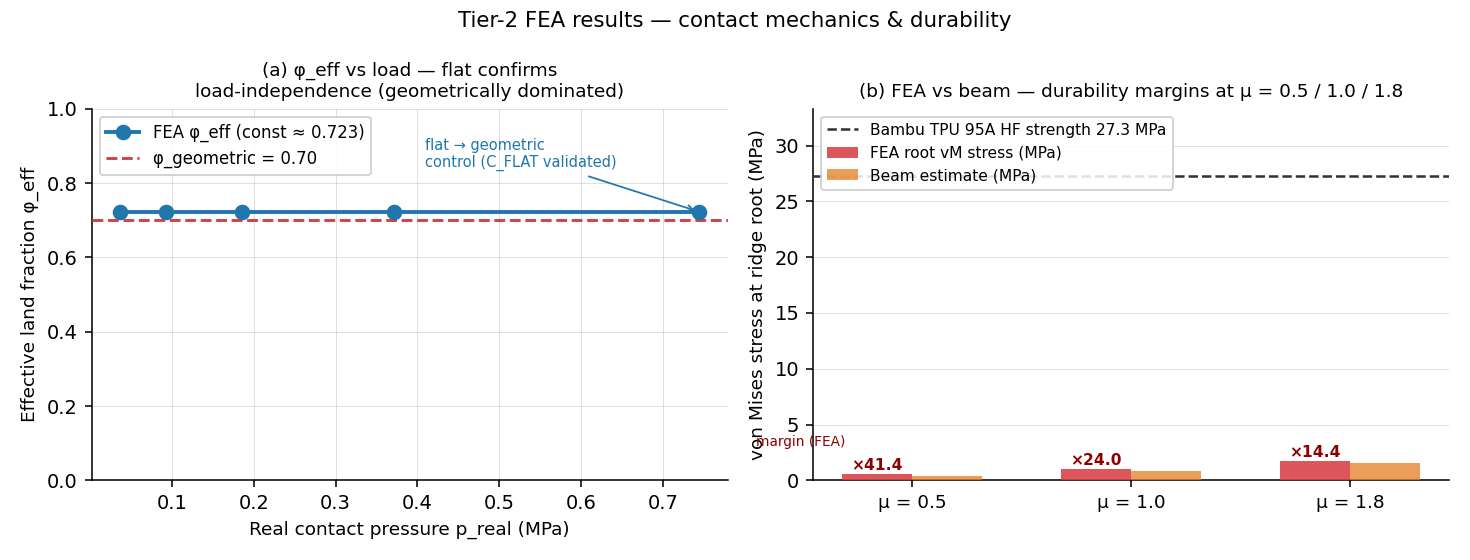
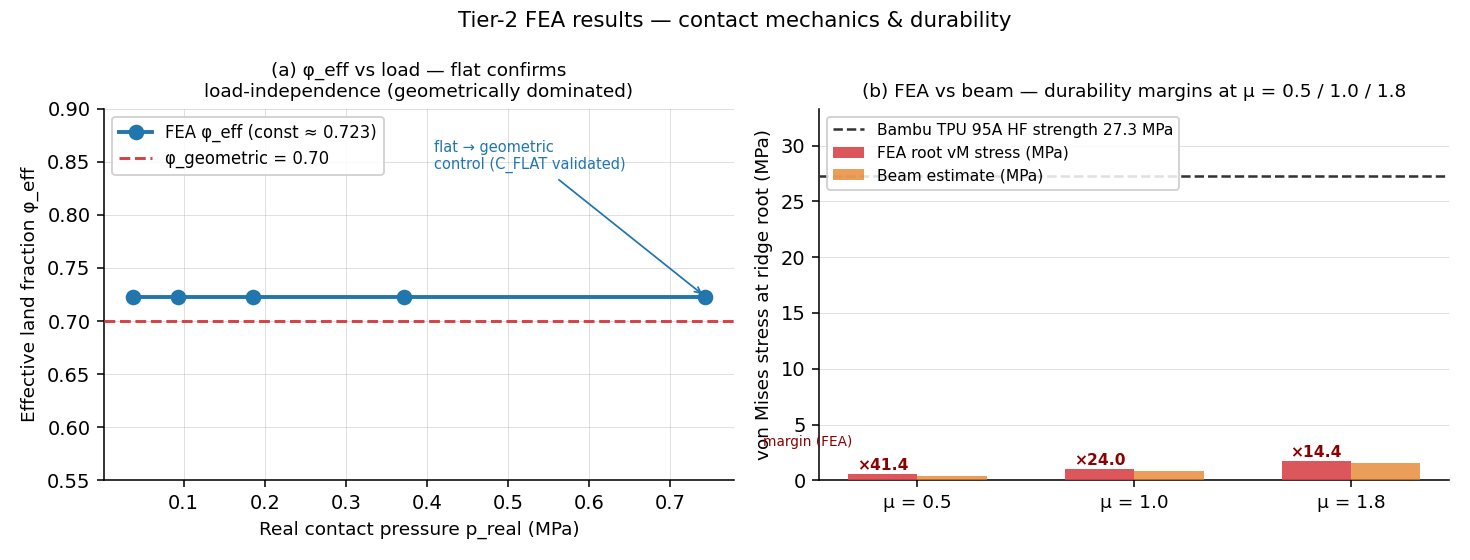
fix(figs): tighten tier-2 φ_eff axis; log-scale the torque-chain plot
- tier2_fea (a): y-axis 0.55–0.9 so the flat load-independence trend is readable.
- torque_chain: log y + both-axis grid + 0.05–14 N limits so the near-closed
  force decade isn't crushed against zero.

diff --git a/motor/scripts/torque_chain.py b/motor/scripts/torque_chain.py
@@ -86,8 +86,9 @@ def plot(out):
         ax.text(0.02, 12.4, "12 N FEA stress-probe", fontsize=8, alpha=0.7)
         ax.set_title(f"{gname}\n(T_safe = {tsafe} N·m)", fontsize=9)
         ax.set_xlabel("open_norm (0=closed → 1=open)")
-        ax.grid(alpha=0.3); ax.legend(fontsize=7)
+        ax.grid(alpha=0.3, which="both"); ax.legend(fontsize=7); ax.set_yscale("log")
     axs[0].set_ylabel("per-finger tip force (N), mid-face")
+    axs[0].set_ylim(0.05, 14)
     fig.suptitle("Motor → tip-force chain: gear ceiling binds, not the servo "
                  "(12 N is FEA stress-probe, not operating force)", fontsize=11)
     fig.tight_layout()

diff --git a/grip/scripts/make_figures.py b/grip/scripts/make_figures.py
@@ -468,7 +468,7 @@ def fig_tier2_fea():
     ax_a.set_xlabel("Real contact pressure p_real (MPa)", fontsize=9.5)
     ax_a.set_ylabel("Effective land fraction φ_eff", fontsize=9.5)
     ax_a.set_title("(a) φ_eff vs load — flat confirms\nload-independence (geometrically dominated)", fontsize=9.5)
-    ax_a.set_ylim(0, 1.0)
+    ax_a.set_ylim(0.55, 0.9)
     ax_a.legend(fontsize=8.5)
     ax_a.grid(lw=0.4, alpha=0.5)
     ax_a.annotate("flat → geometric\ncontrol (C_FLAT validated)",